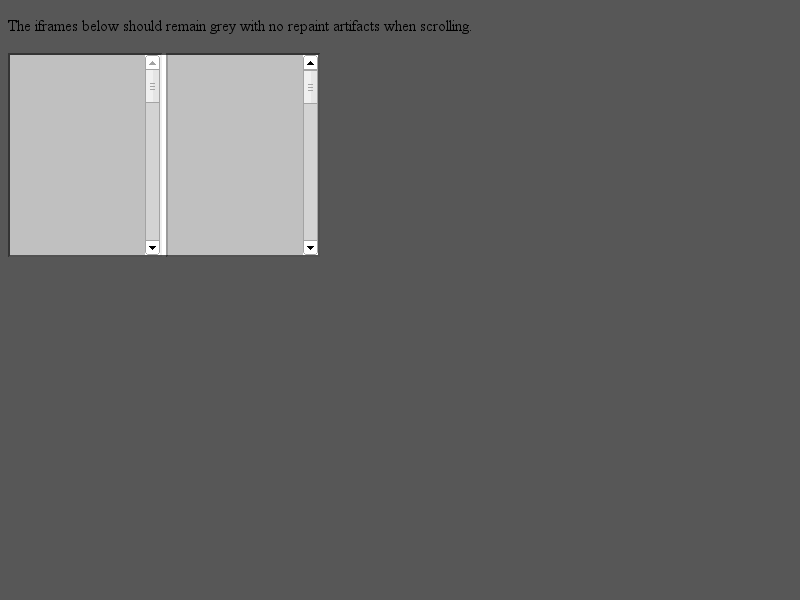
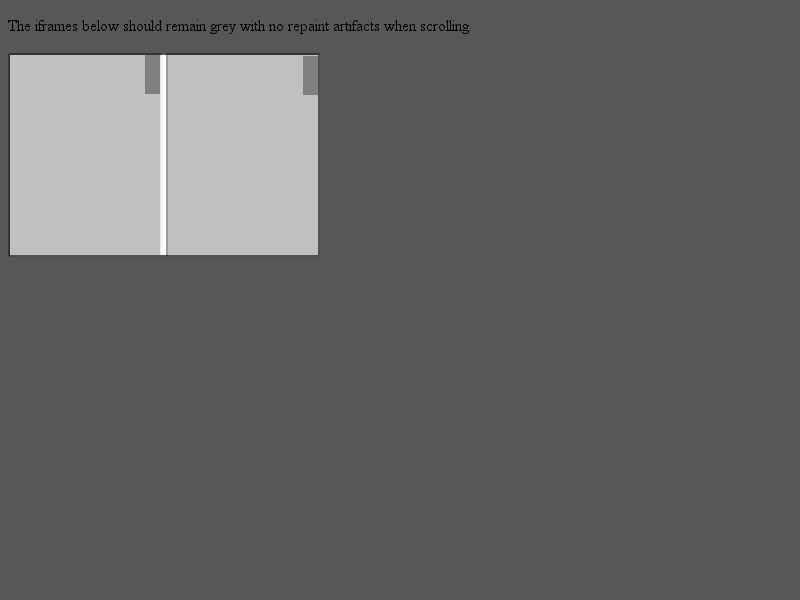
Convert sub-pixel iframe-copy-on-scroll tests to use Mock scrollbars https://bugs.webkit.org/show_bug.cgi?id=105210
Reviewed by Emil A Eklund.

Converting the iframe tests in sub-pixel/ to use mock scrollbars. These tests needed to
be rebaselined following r137847 anyways. Best to make this change before that.

* fast/sub-pixel/sub-pixel-iframe-copy-on-scroll.html:
* fast/sub-pixel/transformed-iframe-copy-on-scroll.html:
* platform/chromium-linux/fast/sub-pixel/sub-pixel-iframe-copy-on-scroll-expected.png:
* platform/chromium-linux/fast/sub-pixel/transformed-iframe-copy-on-scroll-expected.png:
* platform/chromium/TestExpectations:

git-svn-id: https://svn.webkit.org/repository/webkit/trunk@137945 268f45cc-cd09-0410-ab3c-d52691b4dbfc

diff --git a/LayoutTests/fast/sub-pixel/sub-pixel-iframe-copy-on-scroll.html b/LayoutTests/fast/sub-pixel/sub-pixel-iframe-copy-on-scroll.html
@@ -12,8 +12,10 @@
 </style>
 <script src="../repaint/resources/repaint.js" type="text/javascript"></script>
 <script>
-if (window.testRunner)
+if (window.testRunner) {
   testRunner.waitUntilDone();
+  internals.settings.setMockScrollbarsEnabled(true);
+}
 
 function setupIframes() {
   setupIframe(document.getElementById('iframe1').contentWindow.document);

diff --git a/LayoutTests/fast/sub-pixel/transformed-iframe-copy-on-scroll.html b/LayoutTests/fast/sub-pixel/transformed-iframe-copy-on-scroll.html
@@ -18,8 +18,10 @@
 </style>
 <script src="../repaint/resources/repaint.js" type="text/javascript"></script>
 <script>
-if (window.testRunner)
+if (window.testRunner) {
   testRunner.waitUntilDone();
+  internals.settings.setMockScrollbarsEnabled(true);
+}
 
 function setupIframes() {
   setupIframe(document.getElementById('iframe1').contentWindow.document);
